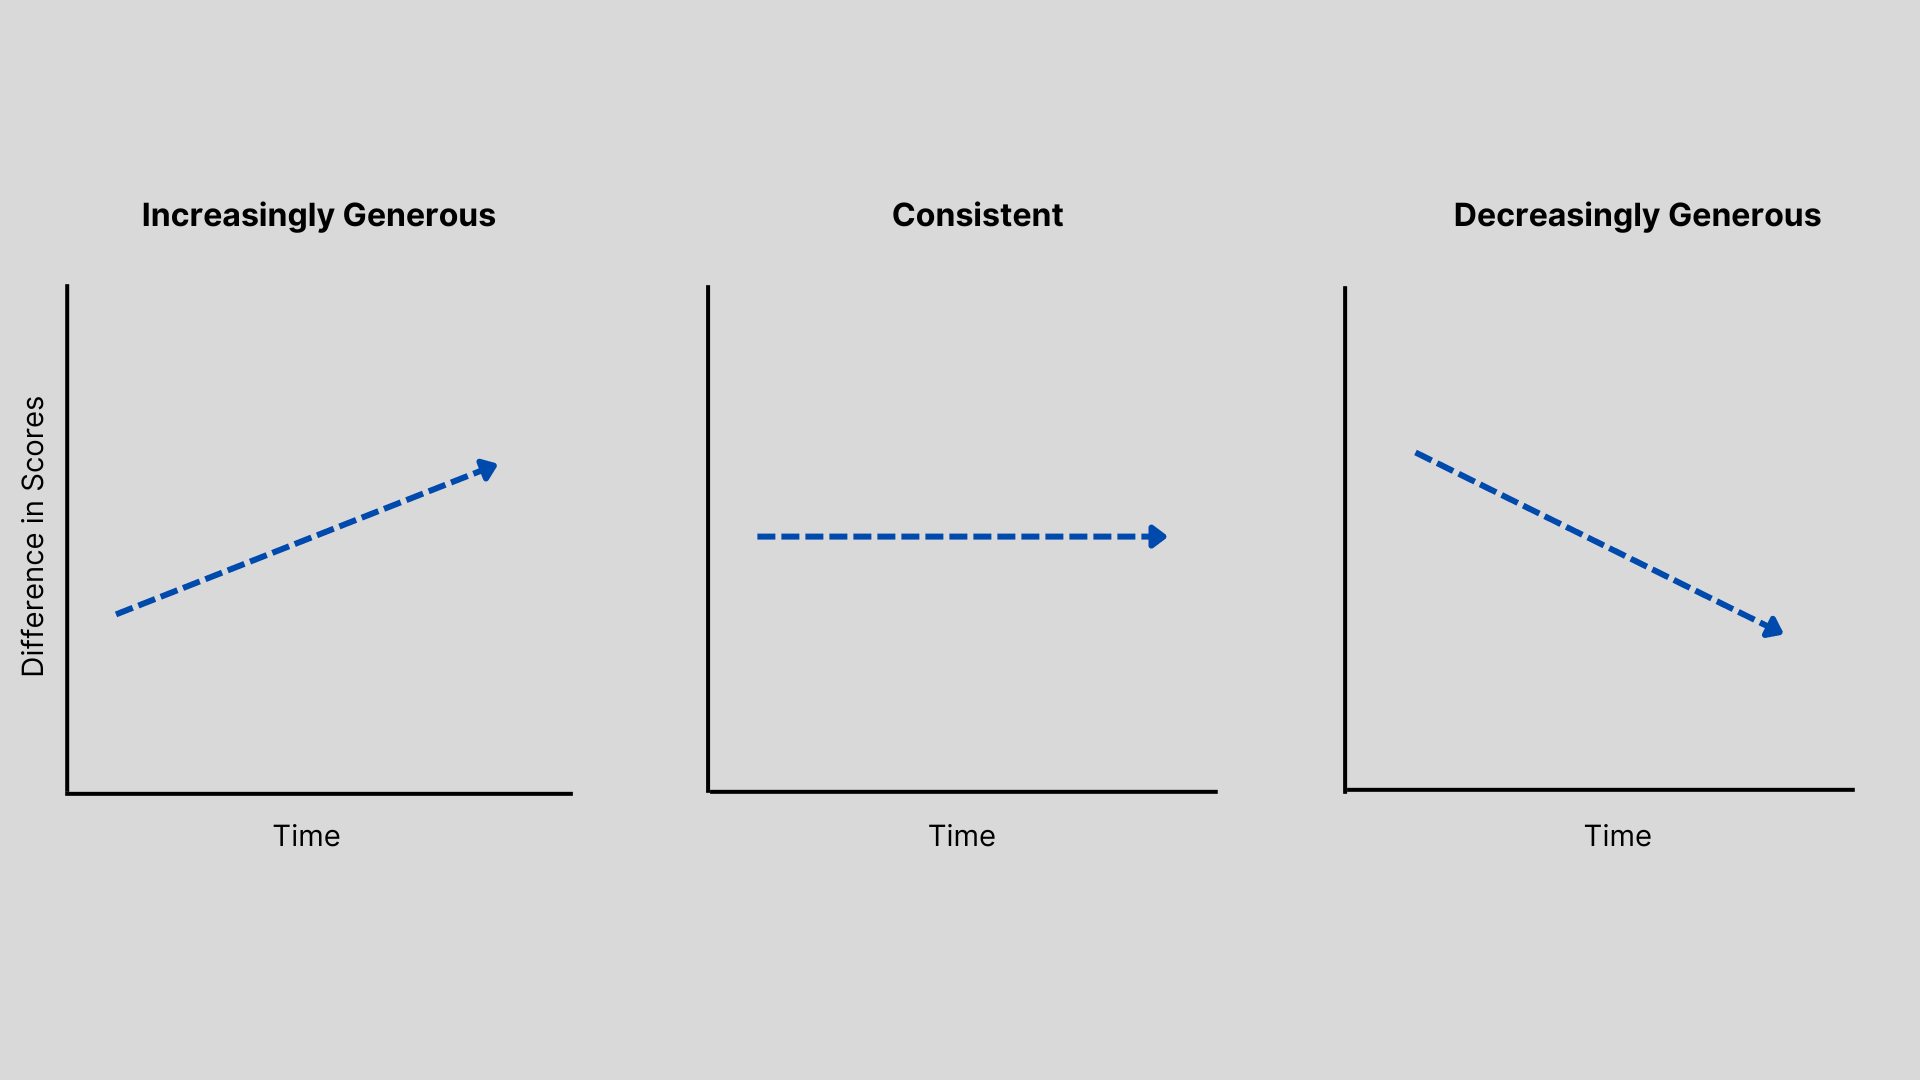
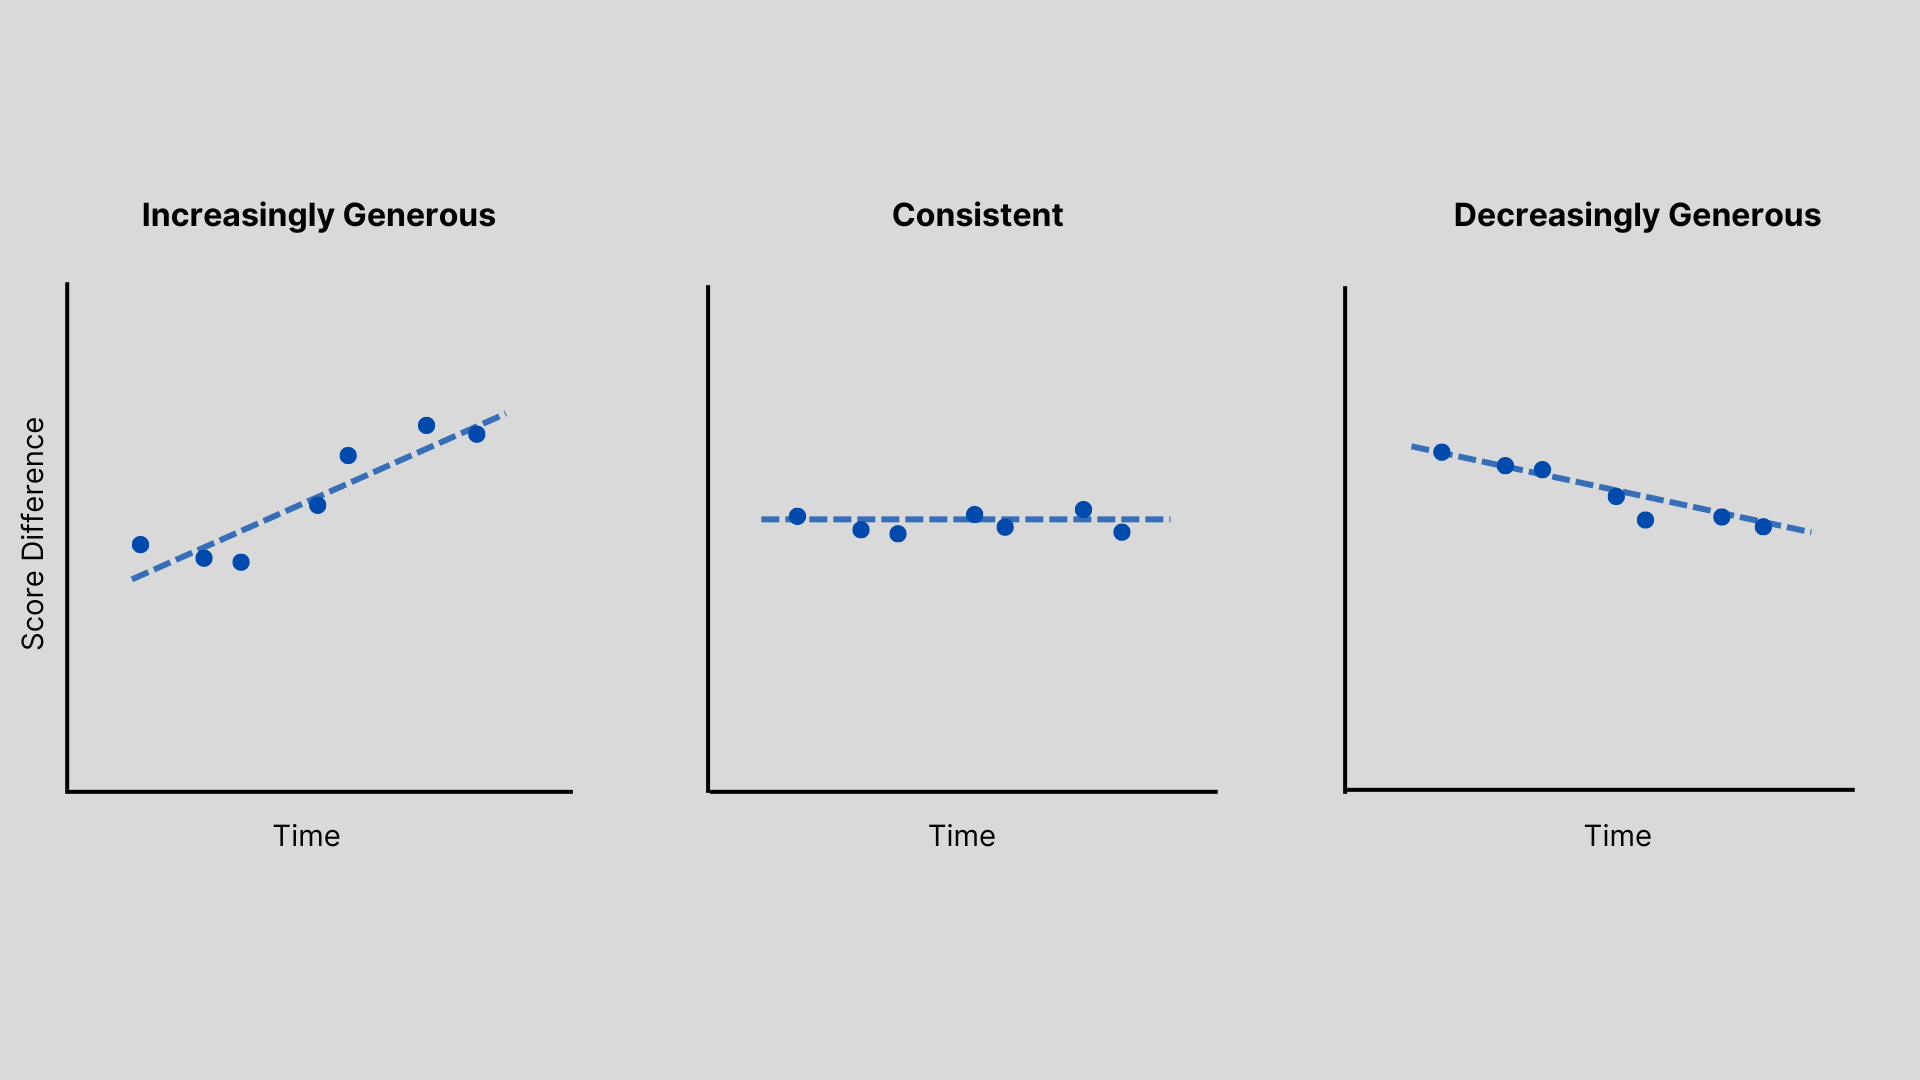
V2 revisions

diff --git a/src/content/post/pizza-review-analysis/index.md b/src/content/post/pizza-review-analysis/index.md
@@ -10,22 +10,22 @@ coverImage:
 draft: false
 ---
 
-If you spend any time on the internet, then you probably have heard of Dave Portnoy. The founder of [Barstool Sports](https://www.barstoolsports.com/), he’s also a prolific pizza reviewer. Since 2013, Portnoy has reviewed nearly 2,000 pizzerias and his [videos](https://www.youtube.com/@OneBitePizzaReviews) regularly gain hundreds of thousands of views. 
+If you spend any time on the internet, you probably have heard of Dave Portnoy. The founder of [Barstool Sports](https://www.barstoolsports.com/), he’s also a prolific pizza reviewer. Since 2013, Portnoy has reviewed nearly 2,000 pizzerias and his [videos](https://www.youtube.com/@OneBitePizzaReviews) regularly gain hundreds of thousands of views. 
 
 Portnoy’s ‘One Bite’ reviews can also transform the fate of small businesses. Last year, Portnoy gave the obscure West Palm Beach pizzeria Ah-Beetz a “monster score” of an 8.4. Today, Ah-Beetz still sees [long lines](https://www.miaminewtimes.com/restaurants/barstool-pizza-david-portnoy-praises-ah-beetz-in-delray-beach-16639968) and is opening up [four new locations](https://ah-beetz.com/ah-beetz-locations/) to keep up with demand. 
 
-I’m a longtime viewer of Portnoy’s reviews. The videos are entertaining and I use them to find good pizza. Recently, I’ve noticed a growing sentiment amongst the Youtube comments – Portnoy’s reviews have gone soft. Dave used to issue “real” scores back in the day. Now? He’s a lot more generous and giving mostly 7’s. 
+I’m a longtime viewer of Portnoy’s reviews. The videos are entertaining and I use them to find good pizza. Recently, I’ve noticed a growing sentiment amongst the Youtube comments – Portnoy’s scores have gotten higher. Dave used to issue “real” scores back in the day. Now? He’s a lot more generous and giving mostly 7’s. 
 
 !["Comments from Youtube"](./dave_comments_yt.png)
 
 While it’s best to ignore Youtube comments, they made me curious: _**has the way Portnoy scores pizza changed?**_
 
-Suppose his scoring has become more generous. Today’s 7.1 is yesterday’s 6.8. For pizzeria’s with older reviews, it means they’re being unfairly compared. There could be hundreds of great restaurants being overlooked simply because their review was done years ago. 
+Suppose his scores have become more generous. Today’s 7.1 is yesterday’s 6.8. For pizzerias with older reviews, it means they’re being unfairly compared. There could be hundreds of great restaurants being overlooked simply because their review was done years ago. 
 
-In this article, I analyzed Portnoy's scoring consistency to determine whether his scores have become more generous.
+In this article, I analyzed Portnoy's scoring consistency to determine whether his scores had become more generous.
 
 ### Collecting the data
-Before I could start, I needed a dataset of scores. To my surprise, I could not find an existing dataset. So, I went to the source: the [OneBite website](https://onebite.app/reviews/dave). After reviewing the Terms & Conditions, I used a python script to collect the following information from every review:
+Before I could start, I needed his scores. To my surprise, I could not find an existing dataset. So, I went to the source: the [OneBite website](https://onebite.app/reviews/dave). After reviewing the Terms & Conditions, I used a Python script to collect the following information for every review:
 
 1. Pizzeria Name
 2. Address
@@ -34,14 +34,14 @@ Before I could start, I needed a dataset of scores. To my surprise, I could not 
 5. Number of Community Reviews
 6. Dave's Review Date
 
-Next, I removed reviews from 2013 through 2015 and 2024 because they had less than 50 reviews or were an incomplete year. Then, I added a ‘Score Difference’ which measured the difference between the Community Score and Portnoy’s Score.
+Once I had this data in a table, I removed reviews from 2013 through 2015 and 2024 because they had less than 50 reviews or were an incomplete year. Then, I added a ‘Score Difference’ column which measured the difference between the Community Score and Portnoy’s Score.
 
 ### Are Portnoy's scores getting higher?
-My first step was determining if Portnoy’s scores have changed over time. Plot 1 displays Portnoy’s average score per year, along with error bars. The larger the error bar, the more frequent extreme values, like 2's or 9's, occurred that year. 
+My first step was determining if Portnoy’s scores changed over time. Plot 1 displays Portnoy’s average score per year, along with error bars. The larger the error bar, the more frequent extreme values, like 2's or 9's, occurred that year. 
 
 !["Portnoy's Average Pizza Score per Year"](./average_ds_per_year.png)
 
-Indeed, Portnoy’s average score increased. The average score in 2023 was nearly 14% higher than the 2016 average score. Additionally, there’s the matter of the error bars, with a noticeable difference in their size before and after 2020. When comparing key statistics, the post-2020 shift becomes more obvious:
+Indeed, Portnoy’s average score increased. The average score in 2023 was nearly 14% higher than the 2016 average score. Additionally, there was a noticeable difference in error bar's length before and after 2020. When comparing key statistics, the post-2020 shift became clear:
 
 |                   | 2016-2019 | 2020-2023 | Change (%) |
 |:------------------|:---------:|:---------:|:----------:|
@@ -50,15 +50,15 @@ Indeed, Portnoy’s average score increased. The average score in 2023 was nearl
 | Variance          |   2.46    |    0.68   |  -72.36%   |
 | Most Common Score |   6.7     |    7.3    |  +8.96%    |
 
-It appeared that, yes, Portnoy is scoring pizza’s differently: since 2020, he's been giving out higher and less extreme (variable) scores. 
+It appeared that, yes, Portnoy was scoring pizzas differently: since 2020, he'd been giving out higher and less extreme (variable) scores. Case closed?
 
-But the change the shift in variability made me suspicious. Even considering the pandemic, I expected to see at least by 2023 the variance returning to its pre-2020 level. But that didn’t happen. Something is making Portnoy’s scores higher and less extreme. 
+Not so fast. The shift in score variability made me suspicious. Even considering the pandemic, I expected to see the variance return to its pre-2020 level by 2023. But that didn’t happen. Something was making Portnoy’s scores higher and less extreme. 
 
 Before I could claim Portnoy's scores had become more generous, I needed to figure out what was causing this shift.
 
 ### What caused Portnoy's scoring shift?
 
-I started watching his videos to see if I could find evidence of what was causing the shift. Over the course of a week, I watched 120 reviews and took notes on what I observed.
+I started by watching his videos to find evidence of the shift's cause. Over the course of a week, I watched 120 reviews and took notes on what I observed.
 
 The videos told an interesting story. Most reviews between 2016 and 2017 were located in NYC. Occasionally, Portnoy alluded to how he found the [spot](https://onebite.app/restaurant/norma-new-york-ny-3be6fd2e). Generally, this was via a friend, an internet comment, or sometimes it appeared like the pizzeria was just along the way to where he was going. Essentially, it felt random. 
 
@@ -68,45 +68,37 @@ I wanted to verify if this shift in review location may have had an affect on th
 
 !["Review Location by Year"](./count_of_reviews_by_state.png)
 
-Sure enough, review location closely correlated with the observed shift in average score. Between 2016 and 2019, the majority of reviews were in NYC. After 2020, the share of NYC-based reviews halved and never returned. Meanwhile, states like Florida and New Jersey saw increases in their share of reviews.
+Sure enough, review location closely correlated with the observed shift in average score. Between 2016 and 2019, the majority of reviews were in NYC. After 2020, the share of NYC-based reviews halved. Meanwhile, states like Florida and New Jersey saw increases in their share of reviews.
 
 Does this mean Florida and New Jersey have better pizza than New York? No, at least I don’t think so. Instead, I believe this is evidence of **selection bias**. 
 
-[Selection Bias](https://sph.unc.edu/wp-content/uploads/sites/112/2015/07/nciph_ERIC13.pdf) is a type of bias caused by the way data is selected. In a perfect world, Portnoy would select pizzerias randomly to help control for factors that might influence the score. As observed in the videos, the selection process in earlier years appeared to be more random.
+[Selection Bias](https://sph.unc.edu/wp-content/uploads/sites/112/2015/07/nciph_ERIC13.pdf) is a type of bias caused by the way data is selected. In a perfect world, Portnoy would select pizzerias randomly to help control for factors that might influence the score. As observed in the videos, the selection process in earlier years appeared to be more random than today's. Based on the videos I watched, here’s how I believe Portnoy’s selection currently works:
 
-Today's selection process appears to be less random. Based on the videos I watched, here’s how I believe Portnoy’s selection now works:
+It generally begins with Portnoy taking a trip, perhaps to Florida or Nantucket. Dave may be less familiar with the pizza options in these areas and, as his popularity has grown, wants to focus on trying only the "best" places. So Portnoy tasks his assistant to use the OneBite App and select the area's pizzerias with the highest Community Score. Therefore, the score increase observed in Plot 1 isn’t necessarily from Portnoy being more generous or 'being off his game'. Instead, his assistant is picking more highly rated pizzerias. 
 
-It generally begins with Portnoy taking a trip, perhaps to Florida. Dave is less familiar with these areas and, as his popularity has grown, he's become focused on trying the "best" (this is a conjecture, I don't know this for sure). So Portnoy has his assistant use the OneBite App to find and select the area's pizzerias with the highest Community Score. Therefore, it suggests the score increase observed in Plot 1 isn’t from Portnoy being more generous or 'being off his game'. Instead, it means his assistant is picking higher quality pizzerias to review. 
-
-This assumption is supported by Plot 3, which plots the distribution of pizzeria Community Scores for 2016-2019 and 2020-2023. The post-2020 period has a higher concentration, or density, of restaurants with a higher Community Score whereas 2016-2019 has less and is more spread out. 
+This assumption is supported by Plot 3, which plots the distribution of pizzeria Community Scores for 2016-2019 and 2020-2023. The post-2020 period had a higher concentration, or density, of restaurants with a higher Community Score whereas 2016-2019 had less and was more spread out. 
 
 !["Restaurant Quality Distribution"](./kde_plot_restaurant_quality.png)
 
 
 ### So, are Portnoy's Scores consistent?
 
-The change in the selection process meant I needed to control for pizzeria quality. By finding a benchmark independent of quality, I could measure the relative change between it and Portnoy's Pizza Score to see if his scoring has shifted over time. 
+Since the selection bias affected the average scores, I couldn't rely on the average to determine if Portnoy's scoring had become more generous. To detect this, I needed to compare his scores with a consistent benchmark. Thankfully, there was the Community Score. The Community Score aggregated multiple individual scores taken overtime into one average. Therefore, the effect of an individual's biases are lessened, providing a good enough benchmark. 
 
-Thankfully, there was the Community Score: a composite of individual OneBite user scores. My hypothesis was simple: if Portnoy’s scoring has been consistent, I would expect to see no change in the _difference_ the Community Score and his. Conversely, if his scoring _has_ become more generous, then I'd expect to see an increasing difference emerge.
-
-To illustrate this, imagine two pizzerias with an equal Community Score. One pizzeria was reviewed by Dave in 2016 while the other in 2023. If Portnoy's scoring is consistent, then the value of both score differences should be nearly same. However, if his scoring has become more generous overtime, then we'd see a positive score difference for the 2023 pizzeria.
+I could compare the Community Score with its Portnoy Score using the Score Difference. If Portnoy's scoring had remained consistent over time, I would expect no change in the Score Difference. However, if he had become more generous over time, then I should see the difference steadily increasing. 
 
 !["Score Difference Meaning"](./score_difference_trends_and_meaning.png)
 
-We can extend this example to the data. Plot 4 shows a line plot of the score difference (in green) for each review over time. To measure the change in difference, I included a linear-fit trendline. A positive slope would indicate Portnoy is becoming more generous, while a negative slope would suggest he is becoming less so.
+Plot 4 shows a line plot of the score difference for each review. To measure changes in the Score Difference, I included a trendline. A positive slope would indicate Portnoy is becoming more generous, while a negative slope would suggest he is becoming less so.
 
 !["Score Difference over Time"](./difference_between_cs_and_ds.png)
 
-The trendline is effectively flat, hovering around Score Difference of 0.50. This suggests Portnoy's scoring has not become more generous. Instead, he has remained consistent in spite of underlying changes in how the pizzeria's are selected.
+The trendline is effectively flat, hovering around Score Difference of 0.50. This flat slope therefore suggests Portnoy's scoring has been remarkably consistent, despite changes in how pizzerias are selected.
 
 ### Conclusion
-Dave Portnoy has been reviewing pizza almost every day since 2013. In this analysis, I showed any perceived changes in Portnoy's scoring likely stemmed from the way he and his team pick spots to review. And even when this bias was controlled for by comparing his scores with the Community Score, Dave Portnoy still demonstrated remarkable consistency. 
+Dave Portnoy has been reviewing pizza almost every day since 2013. In this analysis, I showed that perceived increasese in Portnoy's scoring likely stemmed from the way he and his team picked spots to review, not due to Portnoy becoming more generous with his scores. In fact, Portnoy's Scores demonstrated impressive consistency over time when compared with the Community Scores. 
 
-This is good news for us who use the OneBite App to find good pizza. While you may not agree with Portnoy’s taste, you can be confident that a Portnoy 7.1 from 2016 should be close to the same as one from 2023.
-
-Plus, we can definitively ignore those pesky Youtube comments, but you are probably wiser than me and knew that already.  
-
-
+This is good news for OneBite users and pizzerias alike. While you may not agree with Portnoy’s taste, you can be more confident that a Portnoy 7.1 pizza reviewed in 2016 should be comparable to a 7.1 reviewed in 2023.   
 
 
 #### Appendix A: Resources
@@ -115,11 +107,10 @@ Plus, we can definitively ignore those pesky Youtube comments, but you are proba
 - [One Bite Website](https://onebite.app/reviews/dave)
 
 #### Appendix B: Community Score Note
-In this analysis, I used the Community Score as a benchmark. You might be asking, "well, what if the Community Score had also become more generous over time"? You'd be right to ask that question. This analysis assumes Community Scores remained intrinsicially consistent and had not become more generous over time. Here are a few reasons that I believe justify this assumption:
+In this analysis, I used the Community Score as a benchmark. You might be asking, "well, what if the Community Score had also become more generous over time"? You'd be right to ask that question. This analysis assumes Community Scores remained intrinsically consistent and had not become more generous over time. Here are two reasons that I believe justify this assumption:
 
-1. Composite Nature: The Community Score is an average of multiple individual scores, reducing the influence of any single individual.
-2. Temporal Spread: Reviews contributing to the Community Scores are spread out over time. 
-3. Statistical Significance: 75% of Community Scores are based on at least 17 or more reviews. 
+1. Composite Nature: The Community Score is an average of multiple individual scores. This helps reduce the influence or bias of any specific individual.
+2. Temporal Spread: The individual scores that make up the Community Score are spread out over time. This helps control for changes in the restaurant's quality.
 
 #### Appendix C: Stats stuff for nerds
 I made a few decisions in this analysis that I'd like to explain for those of you interested in my approach.
@@ -127,7 +118,7 @@ I made a few decisions in this analysis that I'd like to explain for those of yo
 1. Error Bars: In Plot 1, I opted to use standard deviation to create my error bars instead of standard error because I wanted to emphasize the variability in pizza scores.
 2. Mean instead of Median: Median can sometimes be a better descriptive statistic than mean because it is less affected by outliers. However, just like the error bars, I wanted to demonstrate that the score data was highly variable and the Mean plot made that more obvious. Additionally, people are more likely to intuitively understand what the mean is and I wanted to ensure someone without a statistics background could understand the findings.
 3. Yearly Mean v. Monthly: Plot 1 measured the annual mean. I decided to use Year as the aggregate to keep the plot clean. A quick note - during my preliminary analysis I observed some interesting seasonality affects on the monthly mean, so maybe one day I'll do a followup analysis.
-4. Sampling: My analysis measured 1,410 reviews. This was less than the 1,737 reviews Dave had completed by the time I pulled the data (7/22/2024). The difference is mostly from the removal of 2013-2015 and 2024 reviews, but my web-scraper did miss approximately 10% of reviews. This was due to how the scraper navigated the website. The scraper would search through each 'fan favorites' page, where it would search for pizzeria's that had both a Portnoy & Community Score. Since I couldn't rank pizzerias by whether they had both scores, the scraper had to iterate through the thousands of pages. This took forever and had diminishing returns as the later pages had less pizzerias that fit my criteria. So, I stopped the scraping once I hit 90% of all reviews.
+4. Sampling: My analysis measured 1,410 reviews. This was less than the 1,737 reviews Dave had completed by the time I pulled the data (7/22/2024). The difference is mostly from the removal of 2013-2015 and 2024 reviews, but my web-scraper did miss approximately 10% of reviews. This was due to how the scraper navigated the website. The scraper would search through each 'fan favorites' page, where it would search for pizzeria's that had both a Portnoy and a Community Score. Since I couldn't rank pizzerias by whether they had both scores, the scraper had to iterate through the thousands of pages. This took forever and had diminishing returns as the later pages had fewer pizzerias that fit my criteria. So, I stopped the scraping once I hit 90% of all reviews.
 
 
 
